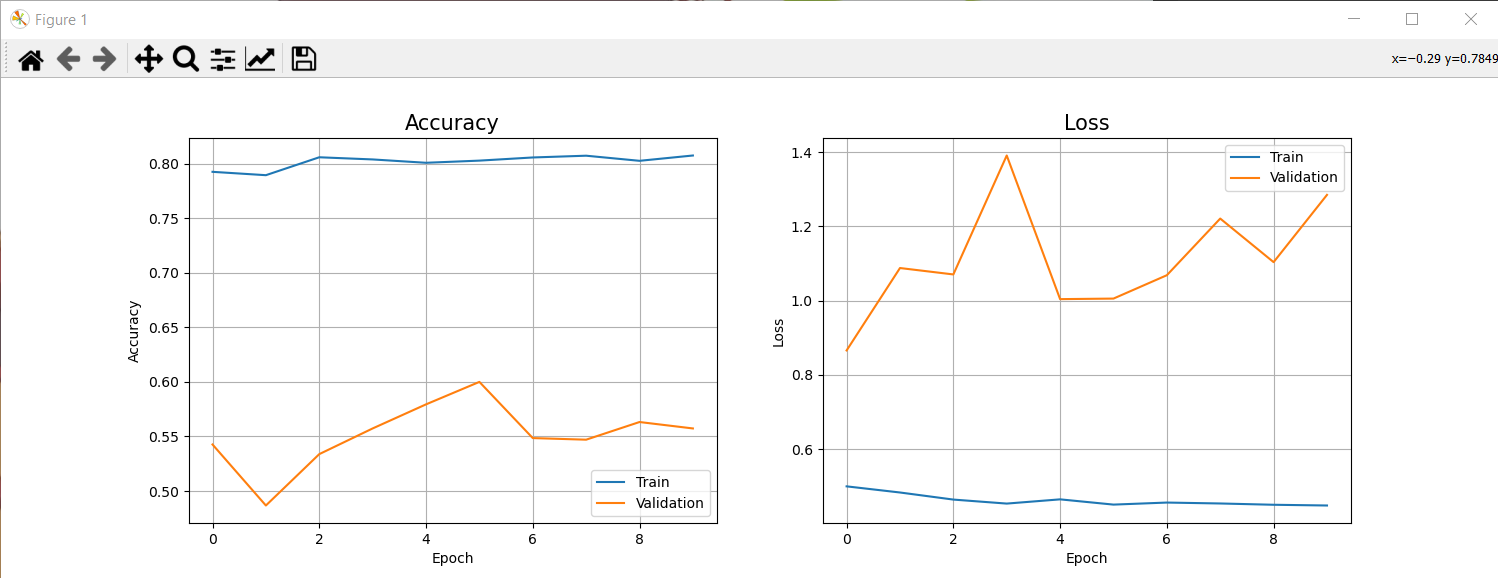
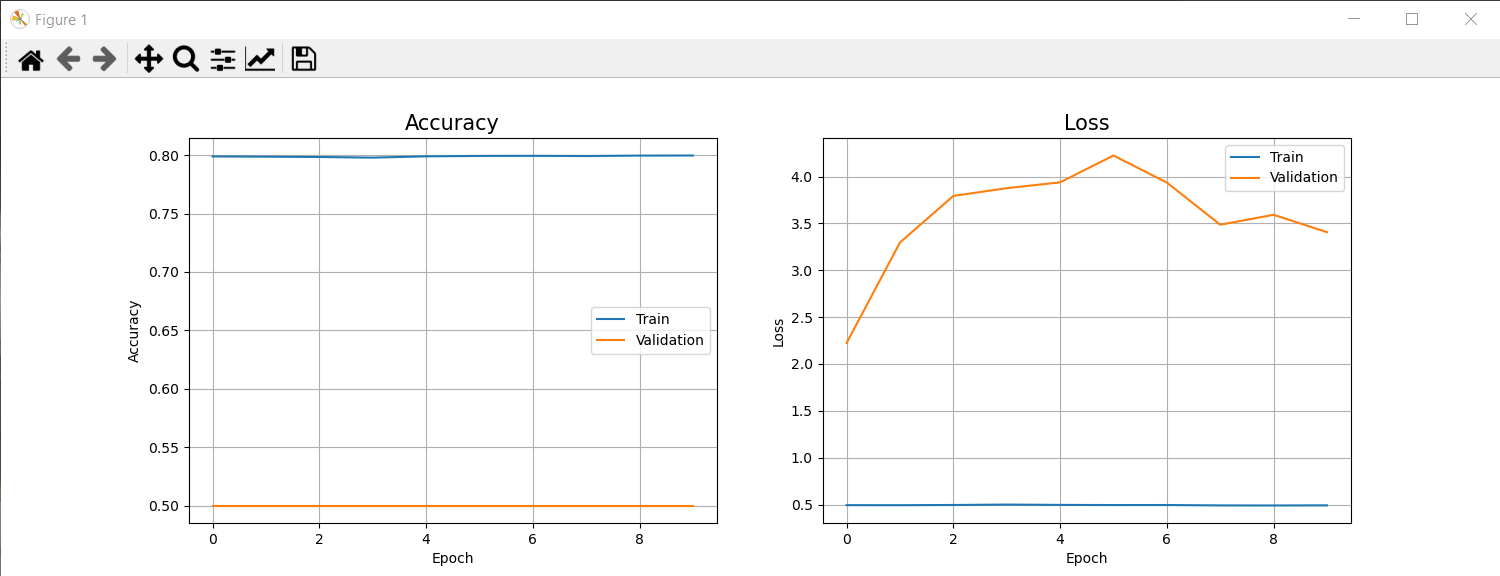
Eroare

diff --git a/retele_conv_covid_2.py b/retele_conv_covid_2.py
@@ -52,11 +52,11 @@ def plot_acc_loss(result):
     plt.show()
     
 
-# data_path = config['paths']['path_small']  # Small_dataset
-data_path = config['paths']['path_big']  # Big_dataset
+data_path = config['paths']['path_small']  # Small_dataset
+# data_path = config['paths']['path_big']  # Big_dataset
 
 
-# train_datagen = ImageDataGenerator()
+# train_datagen = ImageDataGenerator(rescale=1./255)
 train_datagen = ImageDataGenerator(**config['img_gen'])
 validation_datagen = ImageDataGenerator(rescale=1./255)
 
@@ -100,7 +100,10 @@ conv_base.trainable = False
 
 # API secvential
 # model = Sequential()
-# model.add(Conv2D(config['model']['n1'], config['model']['conv1'], activation='relu', input_shape=img_shape))
+# model.add(Conv2D(config['model']['n1'],
+#                  config['model']['conv1'],
+#                  activation='relu',
+#                  input_shape=img_shape))
 # model.add(MaxPool2D((2, 2)))
 # model.add(Conv2D(config['model']['n2'], config['model']['conv2'], activation='relu'))
 # model.add(MaxPool2D((2, 2)))
@@ -115,12 +118,14 @@ conv_base.trainable = False
 # # model.add(BatchNormalization())
 # # print(model.summary())
 
-model.compile(loss='binary_crossentropy', optimizer=tf.keras.optimizers.RMSprop(lr=1e-4), metrics=['accuracy'])
+model.compile(loss='binary_crossentropy',
+              optimizer=tf.keras.optimizers.RMSprop(lr=1e-4),
+              metrics=['accuracy'])
 
 history = model.fit(train_ds,
-                    steps_per_epoch=555,
+                    steps_per_epoch=len(train_ds),
                     validation_data=valid_ds,
-                    validation_steps=68,
+                    validation_steps=len(valid_ds),
                     epochs=config['model']['n_epochs'])
 model.save('covid.h5')
 
@@ -131,6 +136,6 @@ test_generator = validation_datagen.flow_from_directory(data_path + '/test',
                                                         target_size=(64, 64),
                                                         batch_size=10,
                                                         class_mode='binary')
-test_loss, test_acc = model.evaluate(test_generator,
-                                     steps=68)
+test_loss, test_acc = model.evaluate_generator(test_generator,
+                                               steps=68)
 print('test acc:', test_acc*100, '%')
